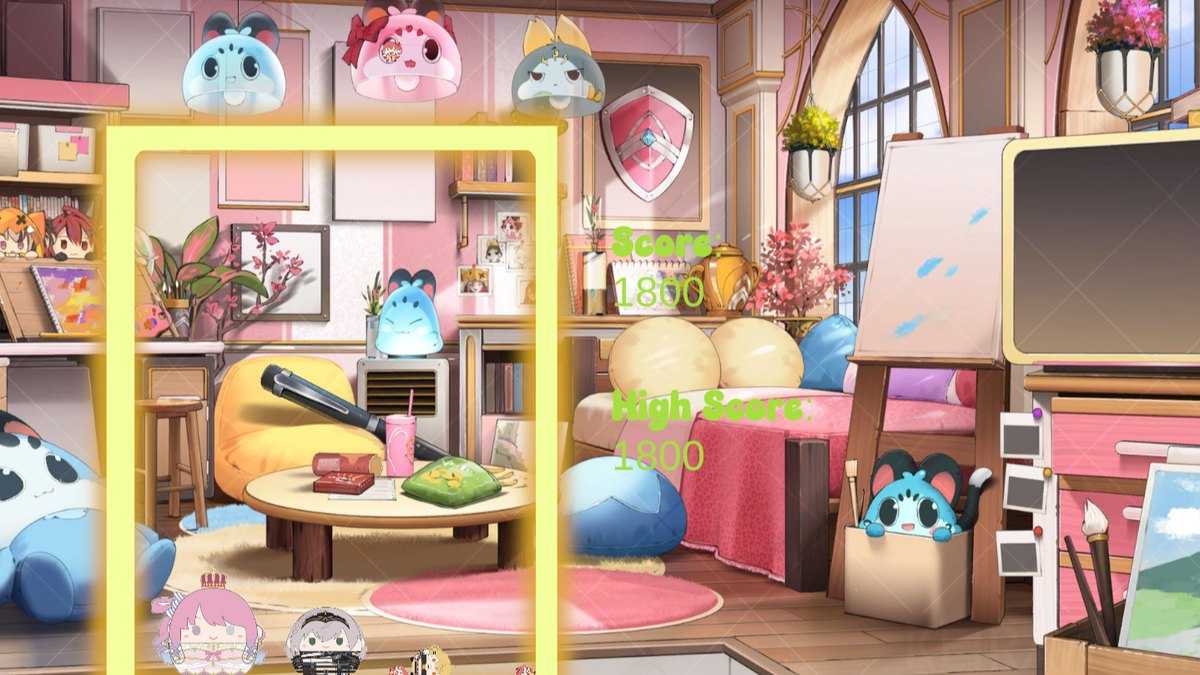
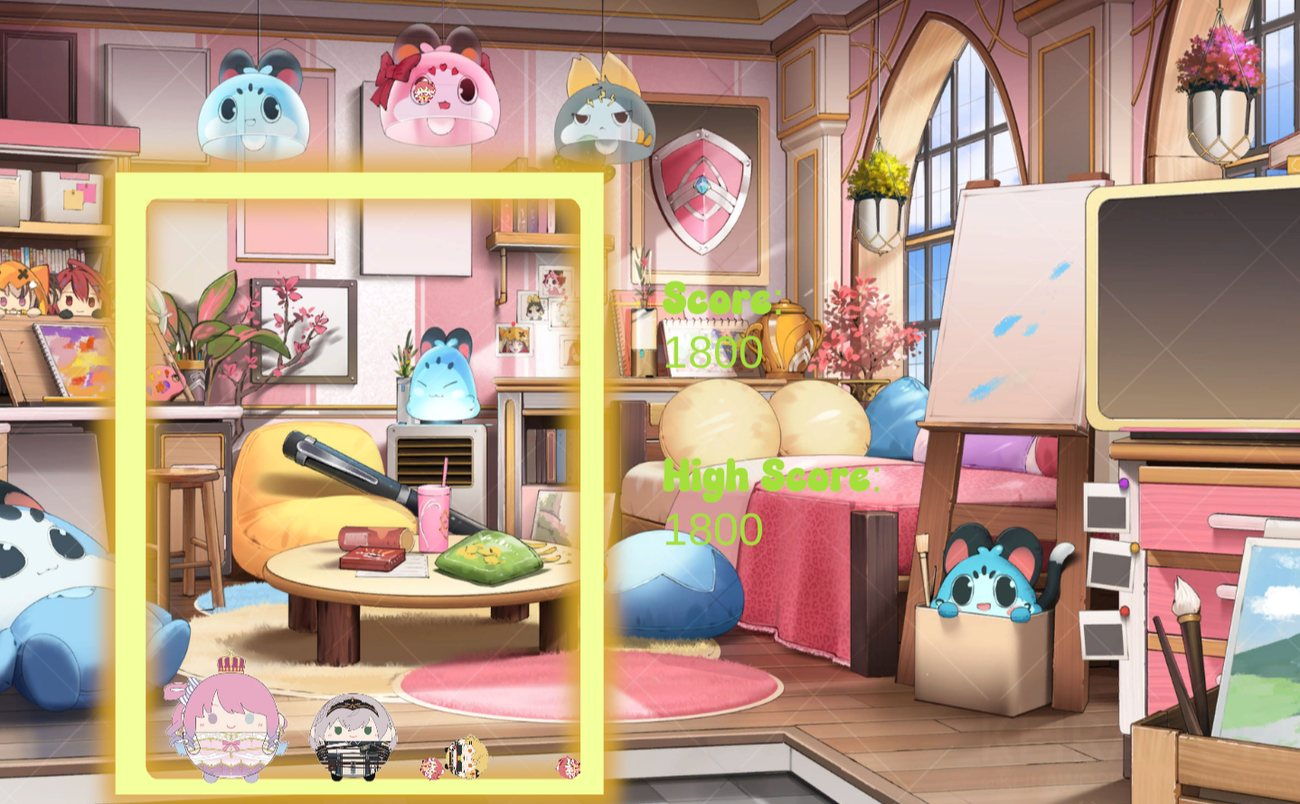
feat: show the whole SuikaClone frame, click through to full resolution

diff --git a/index.html b/index.html
@@ -182,10 +182,11 @@
             <a href="https://hypergs.itch.io/suikaclone" target="_blank" rel="noopener">Play it ↗</a>
           </p>
         </div>
-        <div class="proj-thumb thumb-169">
-          <img src="assets/suikaclone.jpg" width="1200" height="675" loading="lazy"
-               alt="SuikaClone gameplay — merging fruit filling the container" />
-        </div>
+        <a class="proj-thumb thumb-native" href="assets/suikaclone-full.jpg" target="_blank" rel="noopener"
+           title="Open the SuikaClone screenshot at full resolution">
+          <img src="assets/suikaclone.jpg" width="1300" height="804" loading="lazy"
+               alt="SuikaClone gameplay — score 1800, the drop container outline, and next-fruit previews" />
+        </a>
       </article>
 
       <!-- 05 -->

diff --git a/assets/styles.css b/assets/styles.css
@@ -434,6 +434,7 @@ p:last-child { margin-bottom: 0; }
 }
 .proj-thumb.thumb-169 { aspect-ratio: 16 / 9; }
 .proj-thumb.thumb-wide { aspect-ratio: 2561 / 1314; }
+.proj-thumb.thumb-native { aspect-ratio: 1438 / 889; }
 .proj-thumb img {
   width: 100%;
   height: 100%;
